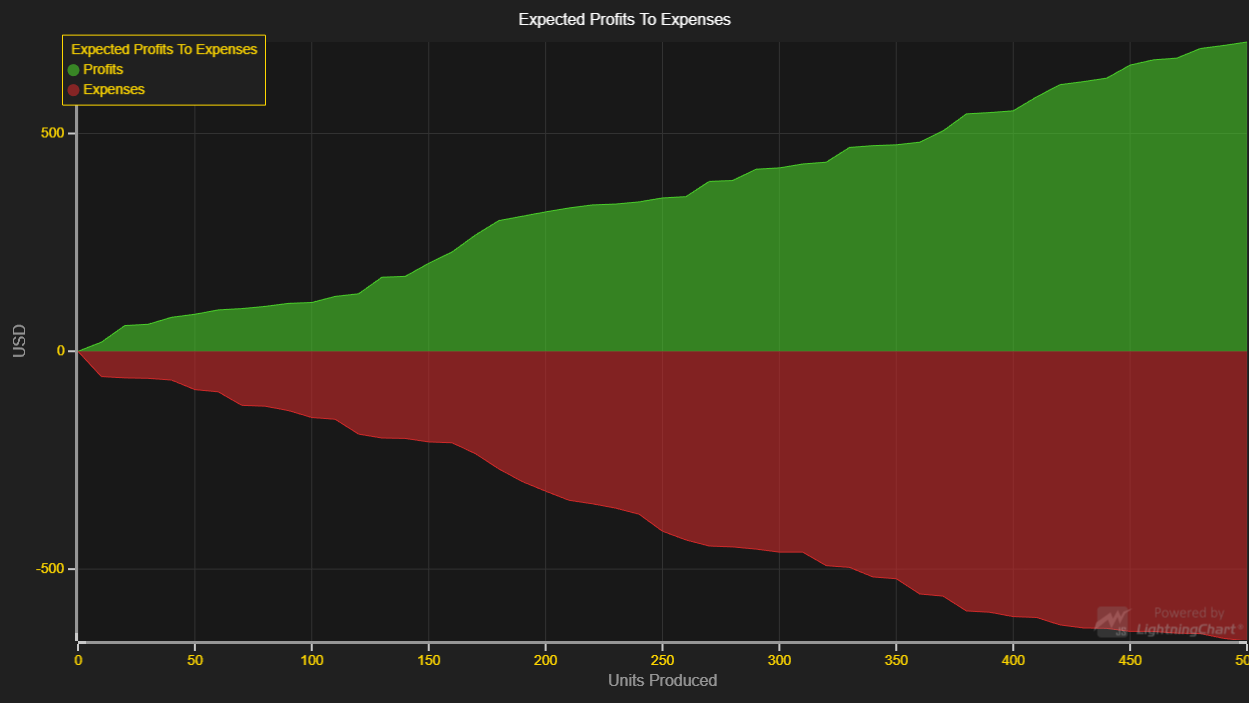
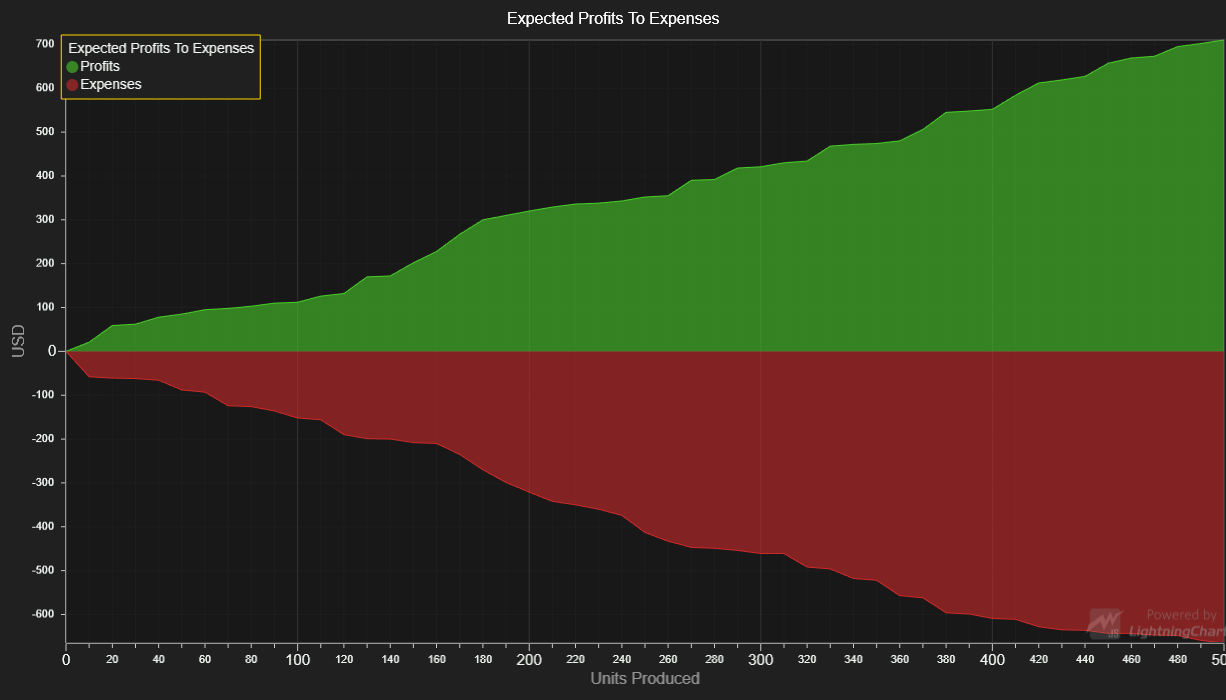
LCJS 2.0.0

diff --git a/src/index.js b/src/index.js
@@ -17,7 +17,8 @@ const {
     UIOrigins,
     UIElementBuilders,
     LegendBoxBuilders,
-    UIButtonPictures
+    UIButtonPictures,
+    Themes
 } = lcjs
 
 // ----- Cache styles -----
@@ -26,7 +27,9 @@ const solidFills = [3, 0].map(palette).map(color => new SolidFill({ color }))
 const opaqueFills = solidFills.map(fill => fill.setA(150))
 
 // Create a XY Chart.
-const xyChart = lightningChart().ChartXY()
+const xyChart = lightningChart().ChartXY({
+    // theme: Themes.dark 
+})
     .setTitle('Expected Profits To Expenses')
     .setPadding({ right: 2 })
 

diff --git a/README.md b/README.md
@@ -64,12 +64,12 @@ series.add([
 
 ## API Links
 
-* XY cartesian chart: [ChartXY]
-* Area series: [AreaSeries]
-* Area type: [AreaSeriesTypes]
-* Positive Area series: [AreaSeriesPositive]
-* Negative Area series: [AreaSeriesNegative]
-* Color palettes: [ColorPalettes]
+* [XY cartesian chart]
+* [Area series]
+* [Area type]
+* [Positive Area series]
+* [Negative Area series]
+* [Color palettes]
 
 
 ## Support
@@ -93,10 +93,10 @@ Direct developer email support can be purchased through a [Support Plan][4] or b
 © Arction Ltd 2009-2020. All rights reserved.
 
 
-[ChartXY]: https://www.arction.com/lightningchart-js-api-documentation/v1.3.0/classes/chartxy.html
-[AreaSeries]: https://www.arction.com/lightningchart-js-api-documentation/v1.3.0/classes/chartxy.html#addareaseries
-[AreaSeriesTypes]: https://www.arction.com/lightningchart-js-api-documentation/v1.3.0/globals.html#areaseriestypes
-[AreaSeriesPositive]: https://www.arction.com/lightningchart-js-api-documentation/v1.3.0/classes/areaseriespositive.html
-[AreaSeriesNegative]: https://www.arction.com/lightningchart-js-api-documentation/v1.3.0/classes/areaseriesnegative.html
-[ColorPalettes]: https://www.arction.com/lightningchart-js-api-documentation/v1.3.0/globals.html#colorpalettes
+[XY cartesian chart]: https://www.arction.com/lightningchart-js-api-documentation/v2.0.0/classes/chartxy.html
+[Area series]: https://www.arction.com/lightningchart-js-api-documentation/v2.0.0/classes/chartxy.html#addareaseries
+[Area type]: https://www.arction.com/lightningchart-js-api-documentation/v2.0.0/globals.html#areaseriestypes
+[Positive Area series]: https://www.arction.com/lightningchart-js-api-documentation/v2.0.0/classes/areaseriespositive.html
+[Negative Area series]: https://www.arction.com/lightningchart-js-api-documentation/v2.0.0/classes/areaseriesnegative.html
+[Color palettes]: https://www.arction.com/lightningchart-js-api-documentation/v2.0.0/globals.html#colorpalettes
 
